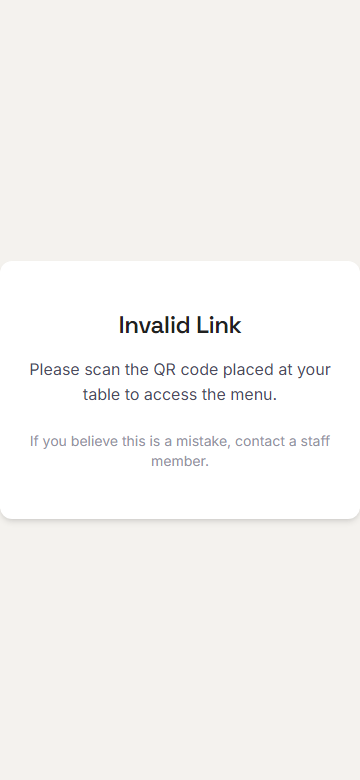
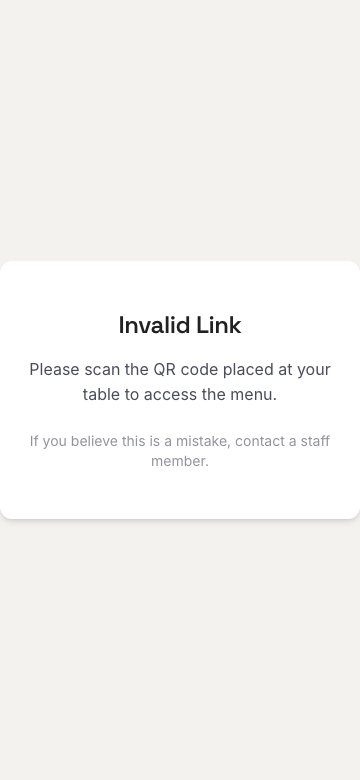
docs(showcase): VM-04 before/after shots of the four table-page states, light and dark
The old customer-errors step shot an unknown table under the name closed-table; it now closes T4 for the closed shot (and opens it again), and adds unknown-table and server-error shots.

Claude-Session: https://claude.ai/code/session_01NNeKHfA4xRMaeA3YnpfAfw

diff --git a/docs/showcase/capture.ts b/docs/showcase/capture.ts
@@ -174,18 +174,41 @@ for (const theme of ["light", "dark"] as const) {
     });
 }
 
-// The customer error states (VM-04): closed table and unknown restaurant.
-await step("customer errors", async () => {
-    const { context, page } = await newPage(browser, PHONE, "light");
-    const c = { page, theme: "light" as const, width: PHONE.width };
-    await page.goto(`${BASE}/${SLUG}/customer/NO-SUCH-TABLE`);
-    await settle(page);
-    await shot(c, "VM-04-closed-table");
-    await page.goto(`${BASE}/no-such-restaurant/customer/T1`);
-    await settle(page);
-    await shot(c, "VM-04-unknown-restaurant");
-    await context.close();
-});
+// VM-04: what a customer sees when the table can't be used: closed, unknown table, unknown
+// restaurant, and a server error. T4 is closed for the shot and opened again afterwards.
+for (const theme of ["light", "dark"] as const) {
+    await step(`VM-04 customer states ${theme}`, async () => {
+        const staff = await newPage(browser, PHONE, theme, "cashier");
+        const tables: { _id: string; name: string }[] = await (await staff.page.request.get(`${BASE}/api/menu/${SLUG}/tables`)).json();
+        const t4 = tables.find((t) => t.name === "T4")!;
+        const setOpen = (isEnabled: boolean) => staff.page.request.patch(`${BASE}/api/menu/${SLUG}/tables/${t4._id}/availability`, { data: { isEnabled } });
+        const { context, page } = await newPage(browser, PHONE, theme);
+        const c = { page, theme, width: PHONE.width };
+        try {
+            await setOpen(false);
+            await page.goto(`${BASE}/${SLUG}/customer/T4`);
+            await settle(page);
+            await shot(c, "VM-04-closed-table", false);
+        } finally {
+            await setOpen(true);
+        }
+        await page.goto(`${BASE}/${SLUG}/customer/NO-SUCH-TABLE`);
+        await settle(page);
+        await shot(c, "VM-04-unknown-table", false);
+        await page.goto(`${BASE}/no-such-restaurant/customer/T1`);
+        await settle(page);
+        await shot(c, "VM-04-unknown-restaurant", false);
+        await page.route(`**/api/menu/${SLUG}/public/tables/**`, (route) =>
+            route.fulfill({ status: 503, contentType: "application/json", body: JSON.stringify({ message: "A required service is unavailable" }) }),
+        );
+        await page.goto(`${BASE}/${SLUG}/customer/T1`);
+        await settle(page);
+        await page.waitForTimeout(1500);
+        await shot(c, "VM-04-server-error", false);
+        await context.close();
+        await staff.context.close();
+    });
+}
 
 // ---------------------------------------------------------------- kitchen
 for (const theme of ["light", "dark"] as const) {
